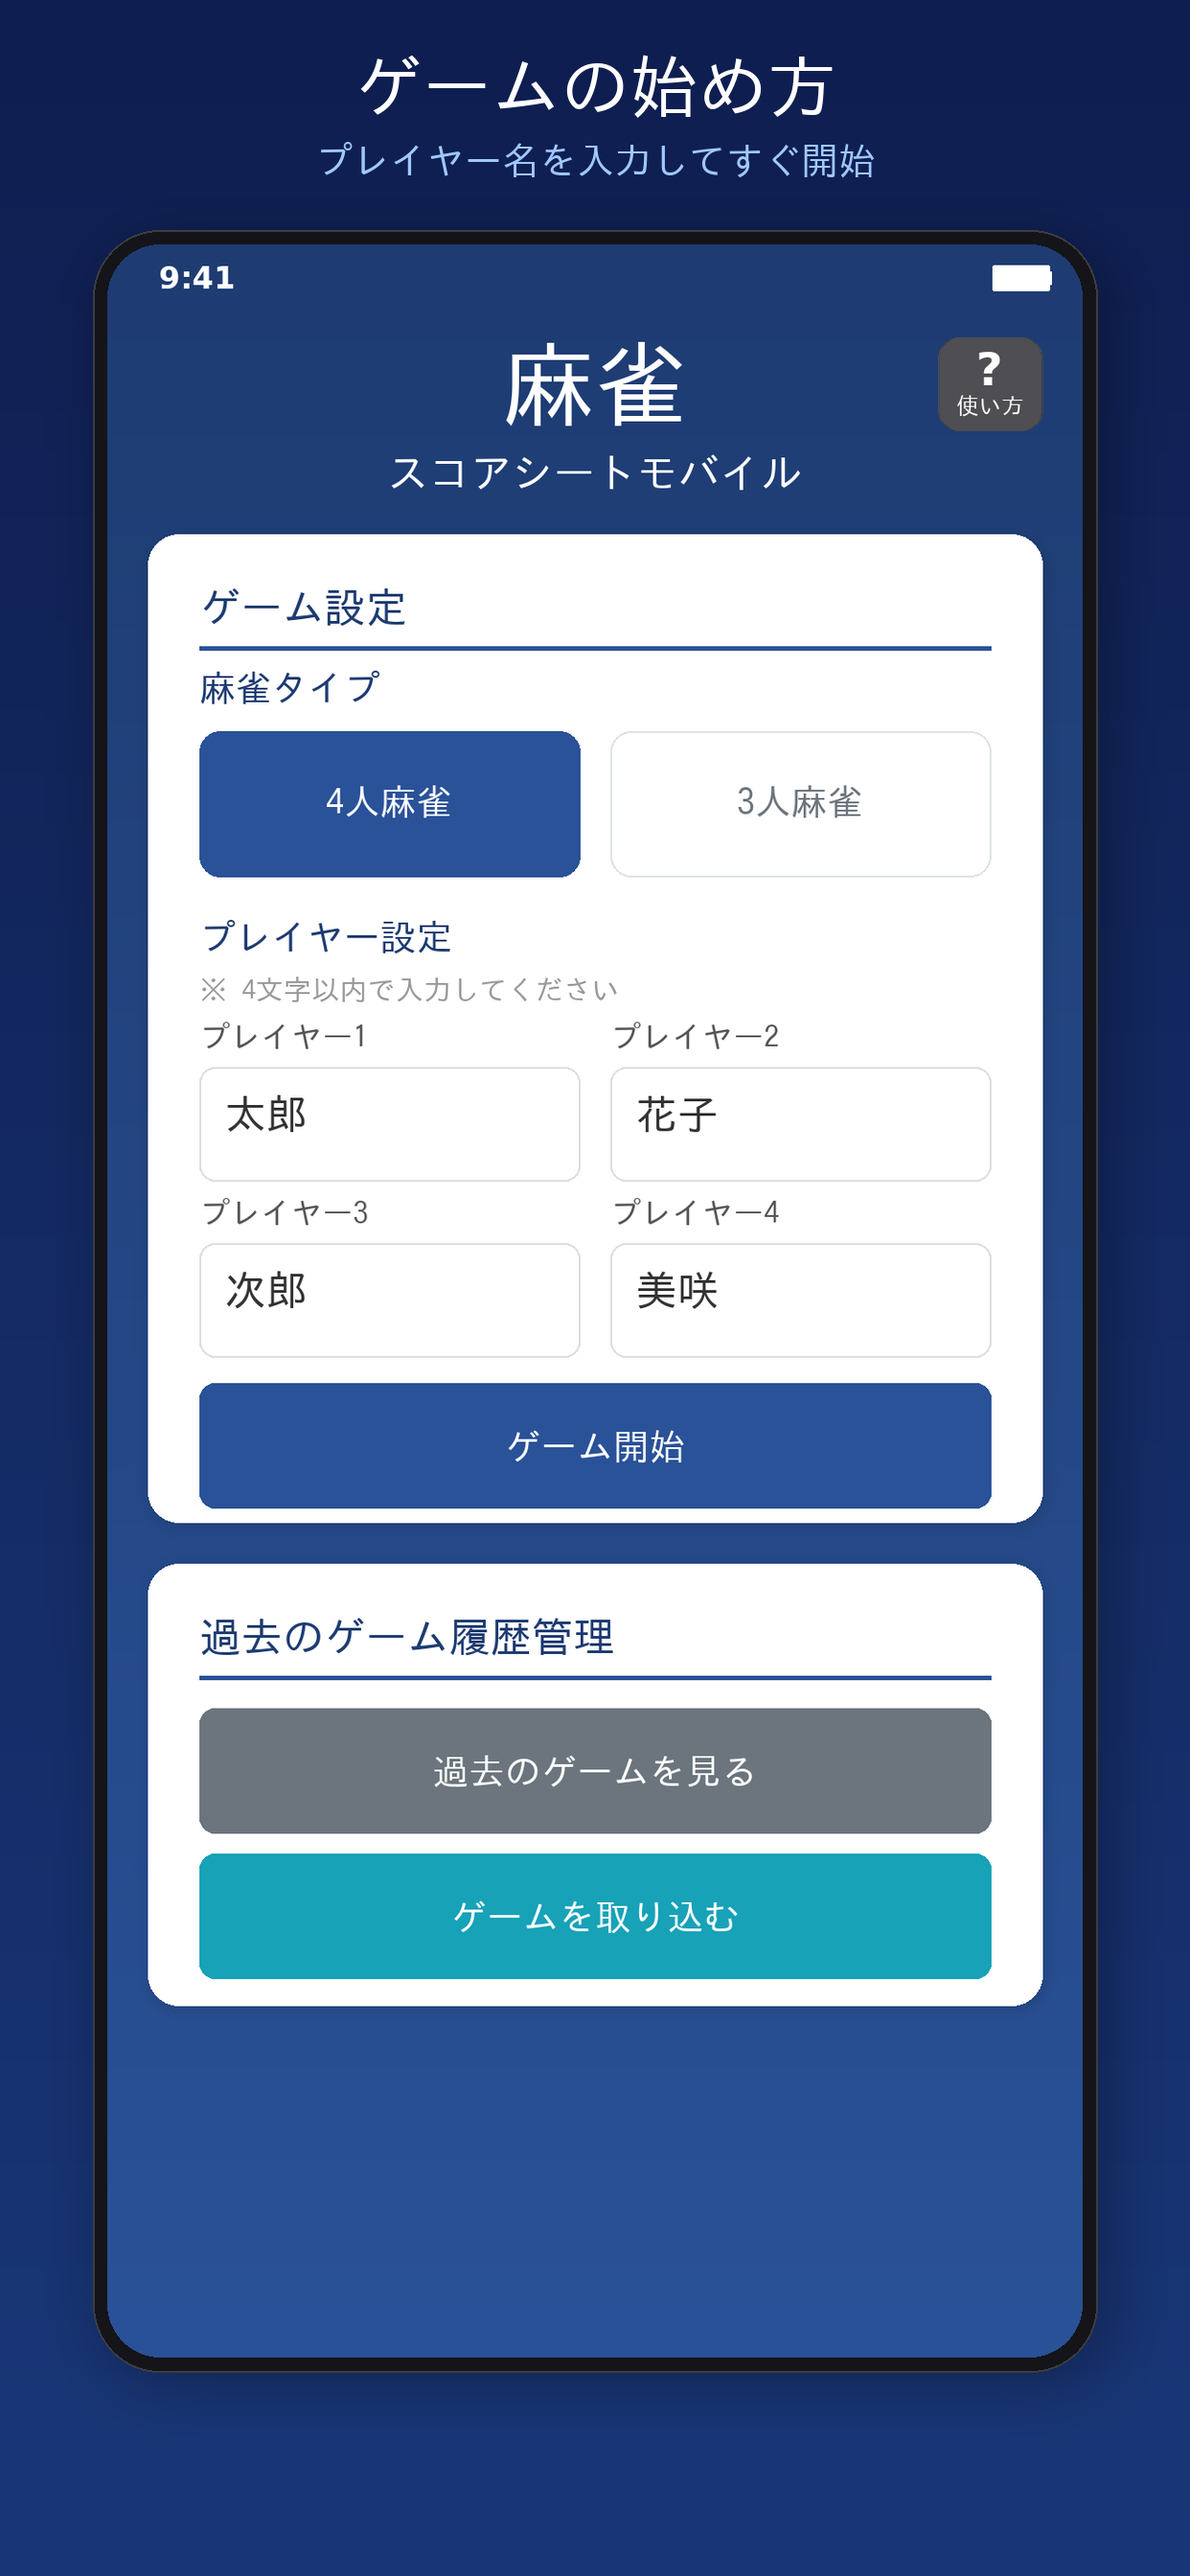
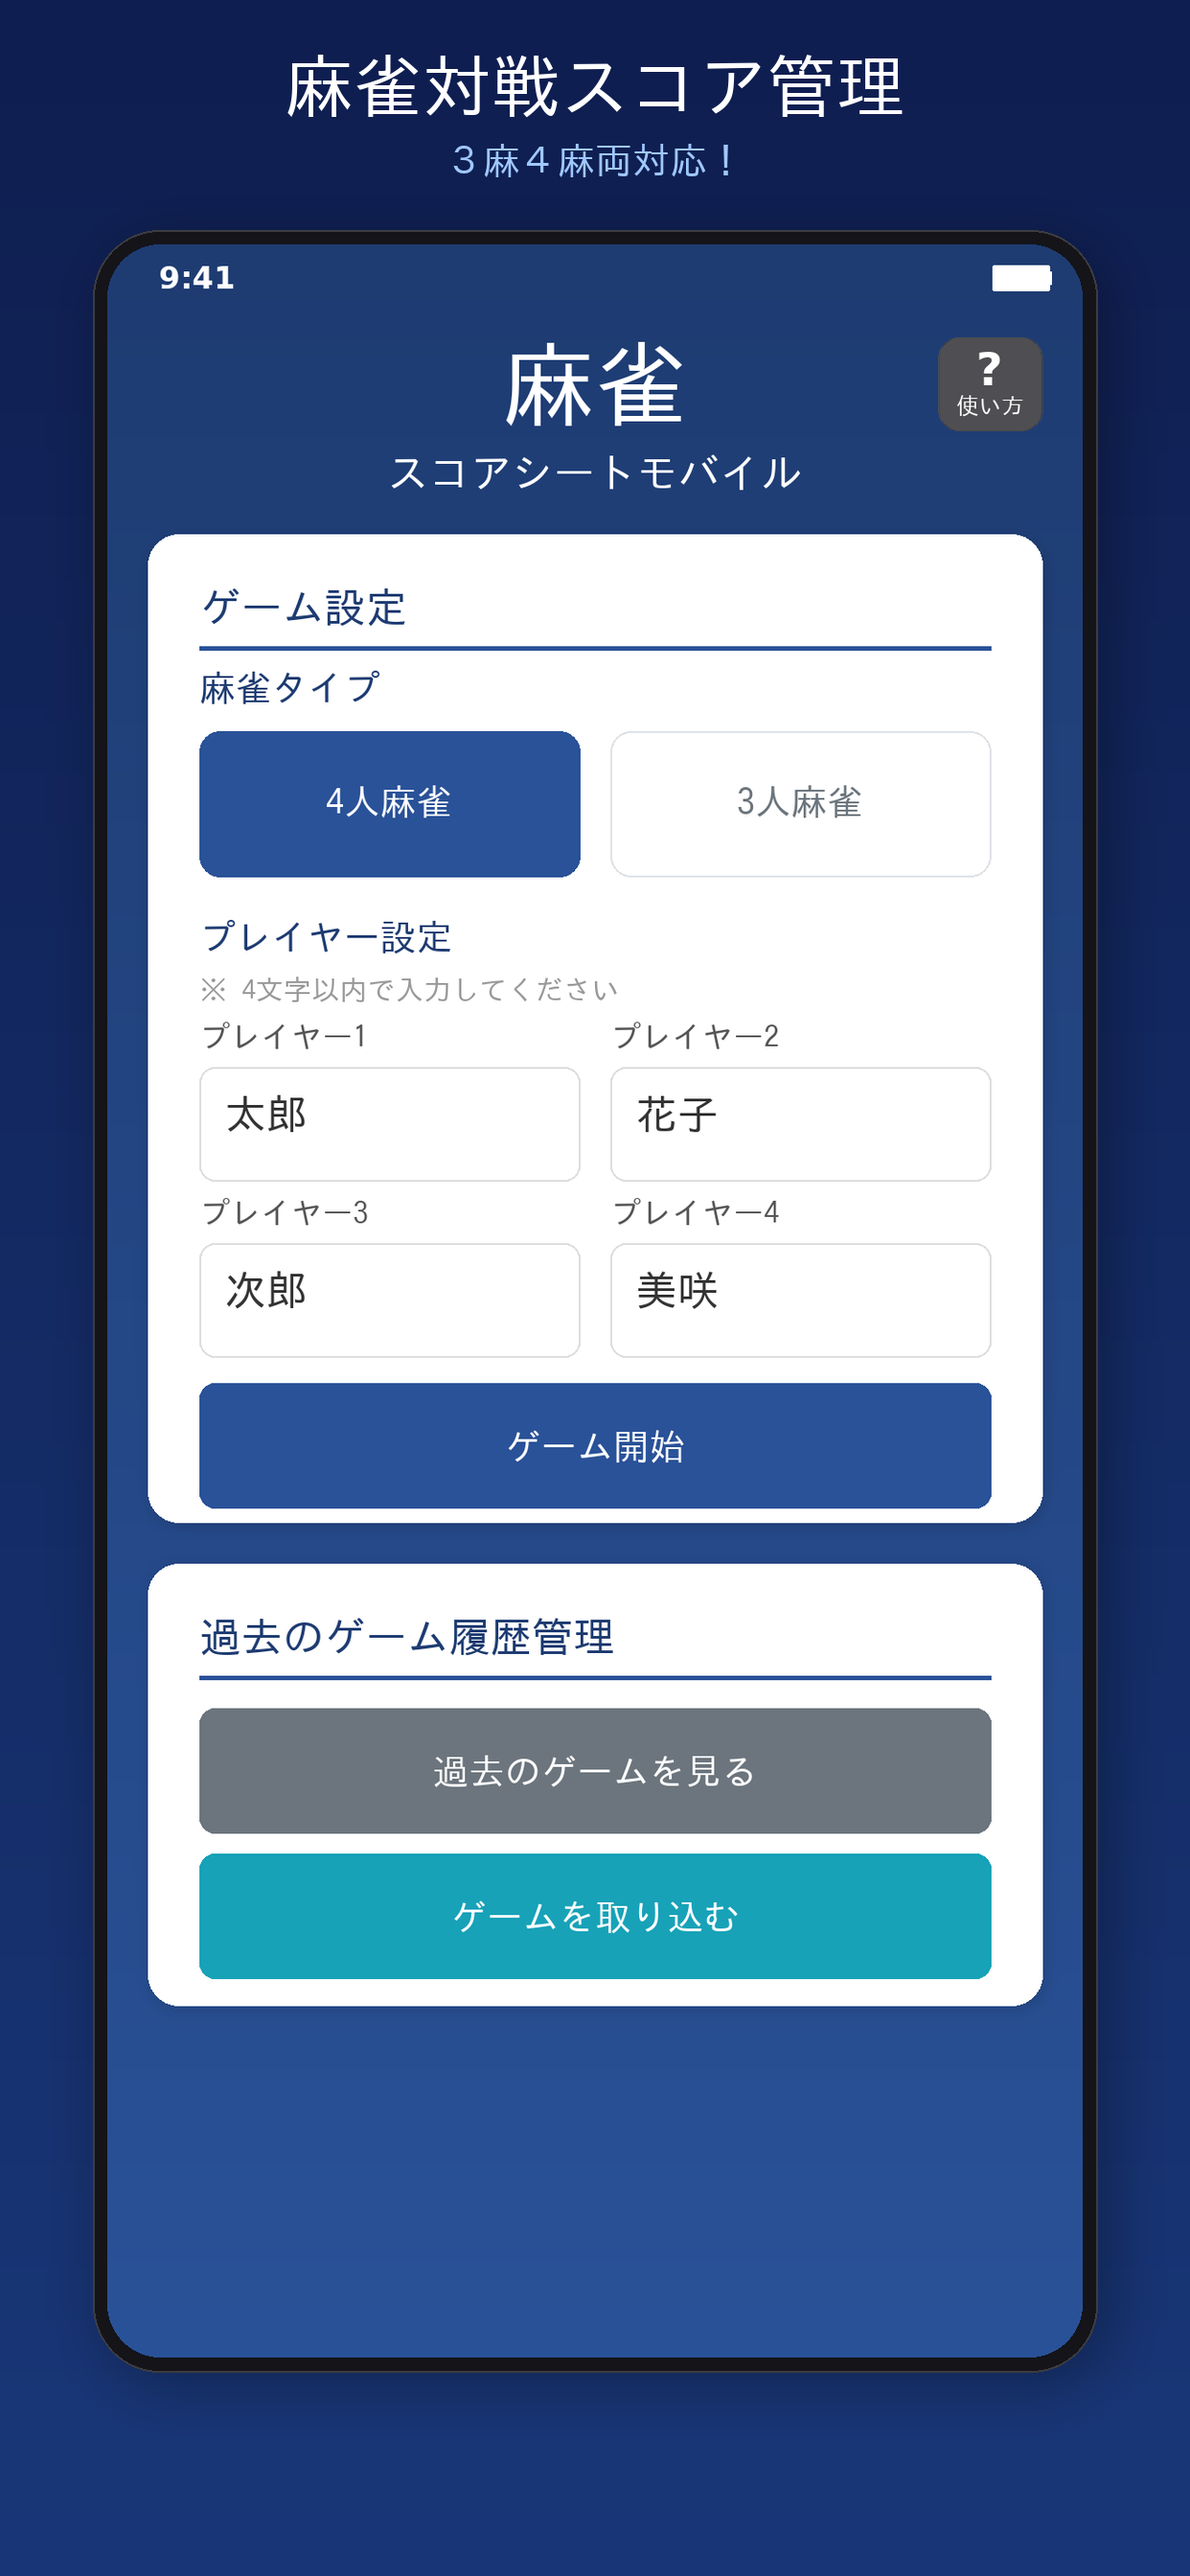
fix: プロモーション画像の文言修正とチップセクションの見た目を改善
- promo_1のタイトルを「麻雀対戦スコア管理 / ３麻４麻両対応！」に変更
- promo_2のチップ移動セクションにドラムロール入力を正しく描画
- promo_2のサブタイトルを「直感的なUIでかんたん入力」に変更

https://claude.ai/code/session_01Q6nhLi3LEqTLgYHiVa6uSf

Changed region(s): [[0.2448, 0.0, 0.7649, 0.0938]]

diff --git a/generate_assets.py b/generate_assets.py
@@ -612,7 +612,7 @@ def generate_promo_setup(output_path):
     ps.draw_button(cx, by, cw, s(48), "ゲームを取り込む", TEAL)
 
     phone_img = ps.get_image()
-    promo = create_promo_frame(phone_img, "ゲームの始め方", "プレイヤー名を入力してすぐ開始")
+    promo = create_promo_frame(phone_img, "麻雀対戦スコア管理", "３麻４麻両対応！")
     promo.save(output_path, 'PNG')
     print(f"Generated: {output_path}")
 
@@ -676,24 +676,24 @@ def generate_promo_score(output_path):
     btn_y = cy + 2 * dr_row_h + s(8)
     ps.draw_button(cx, btn_y, cw, s(42), "スコアを記録", GREEN)
 
-    # ── チップ移動 Card (partial, below) ──
+    # ── チップ移動 Card (showing first row of inputs) ──
     chip_y = card_y + card_h + s(16)
-    chip_h = s(110)
+    chip_h = s(170)
     ps.draw_card(card_x, chip_y, card_w, chip_h)
     d = ps.draw
     cy2 = chip_y + inner_pad
     ps.draw_section_title(cx, cy2, cw, "チップ移動", "合計: 0")
     d = ps.draw
-
-    # Show partial drum roll inputs
     cy2 += s(36)
-    for i, name in enumerate(["太郎", "花子"]):
-        dx2 = cx + i * (dr_w + s(8))
-        lf2 = font(s(12), jp=True)
-        d.text((dx2, cy2), name, fill=DARK_TEXT, font=lf2)
+
+    # Show first row of chip drum roll inputs (太郎, 花子)
+    chip_scores = [("太郎", 3), ("花子", -1)]
+    for i, (name, val) in enumerate(chip_scores):
+        dx2 = cx + i * (dr_w + dr_gap)
+        ps.draw_drumroll_input(dx2, cy2, name, val, box_w=dr_w)
 
     phone_img = ps.get_image()
-    promo = create_promo_frame(phone_img, "スコアの記録", "ドラムロール操作でかんたん入力")
+    promo = create_promo_frame(phone_img, "スコアの記録", "直感的なUIでかんたん入力")
     promo.save(output_path, 'PNG')
     print(f"Generated: {output_path}")
 
